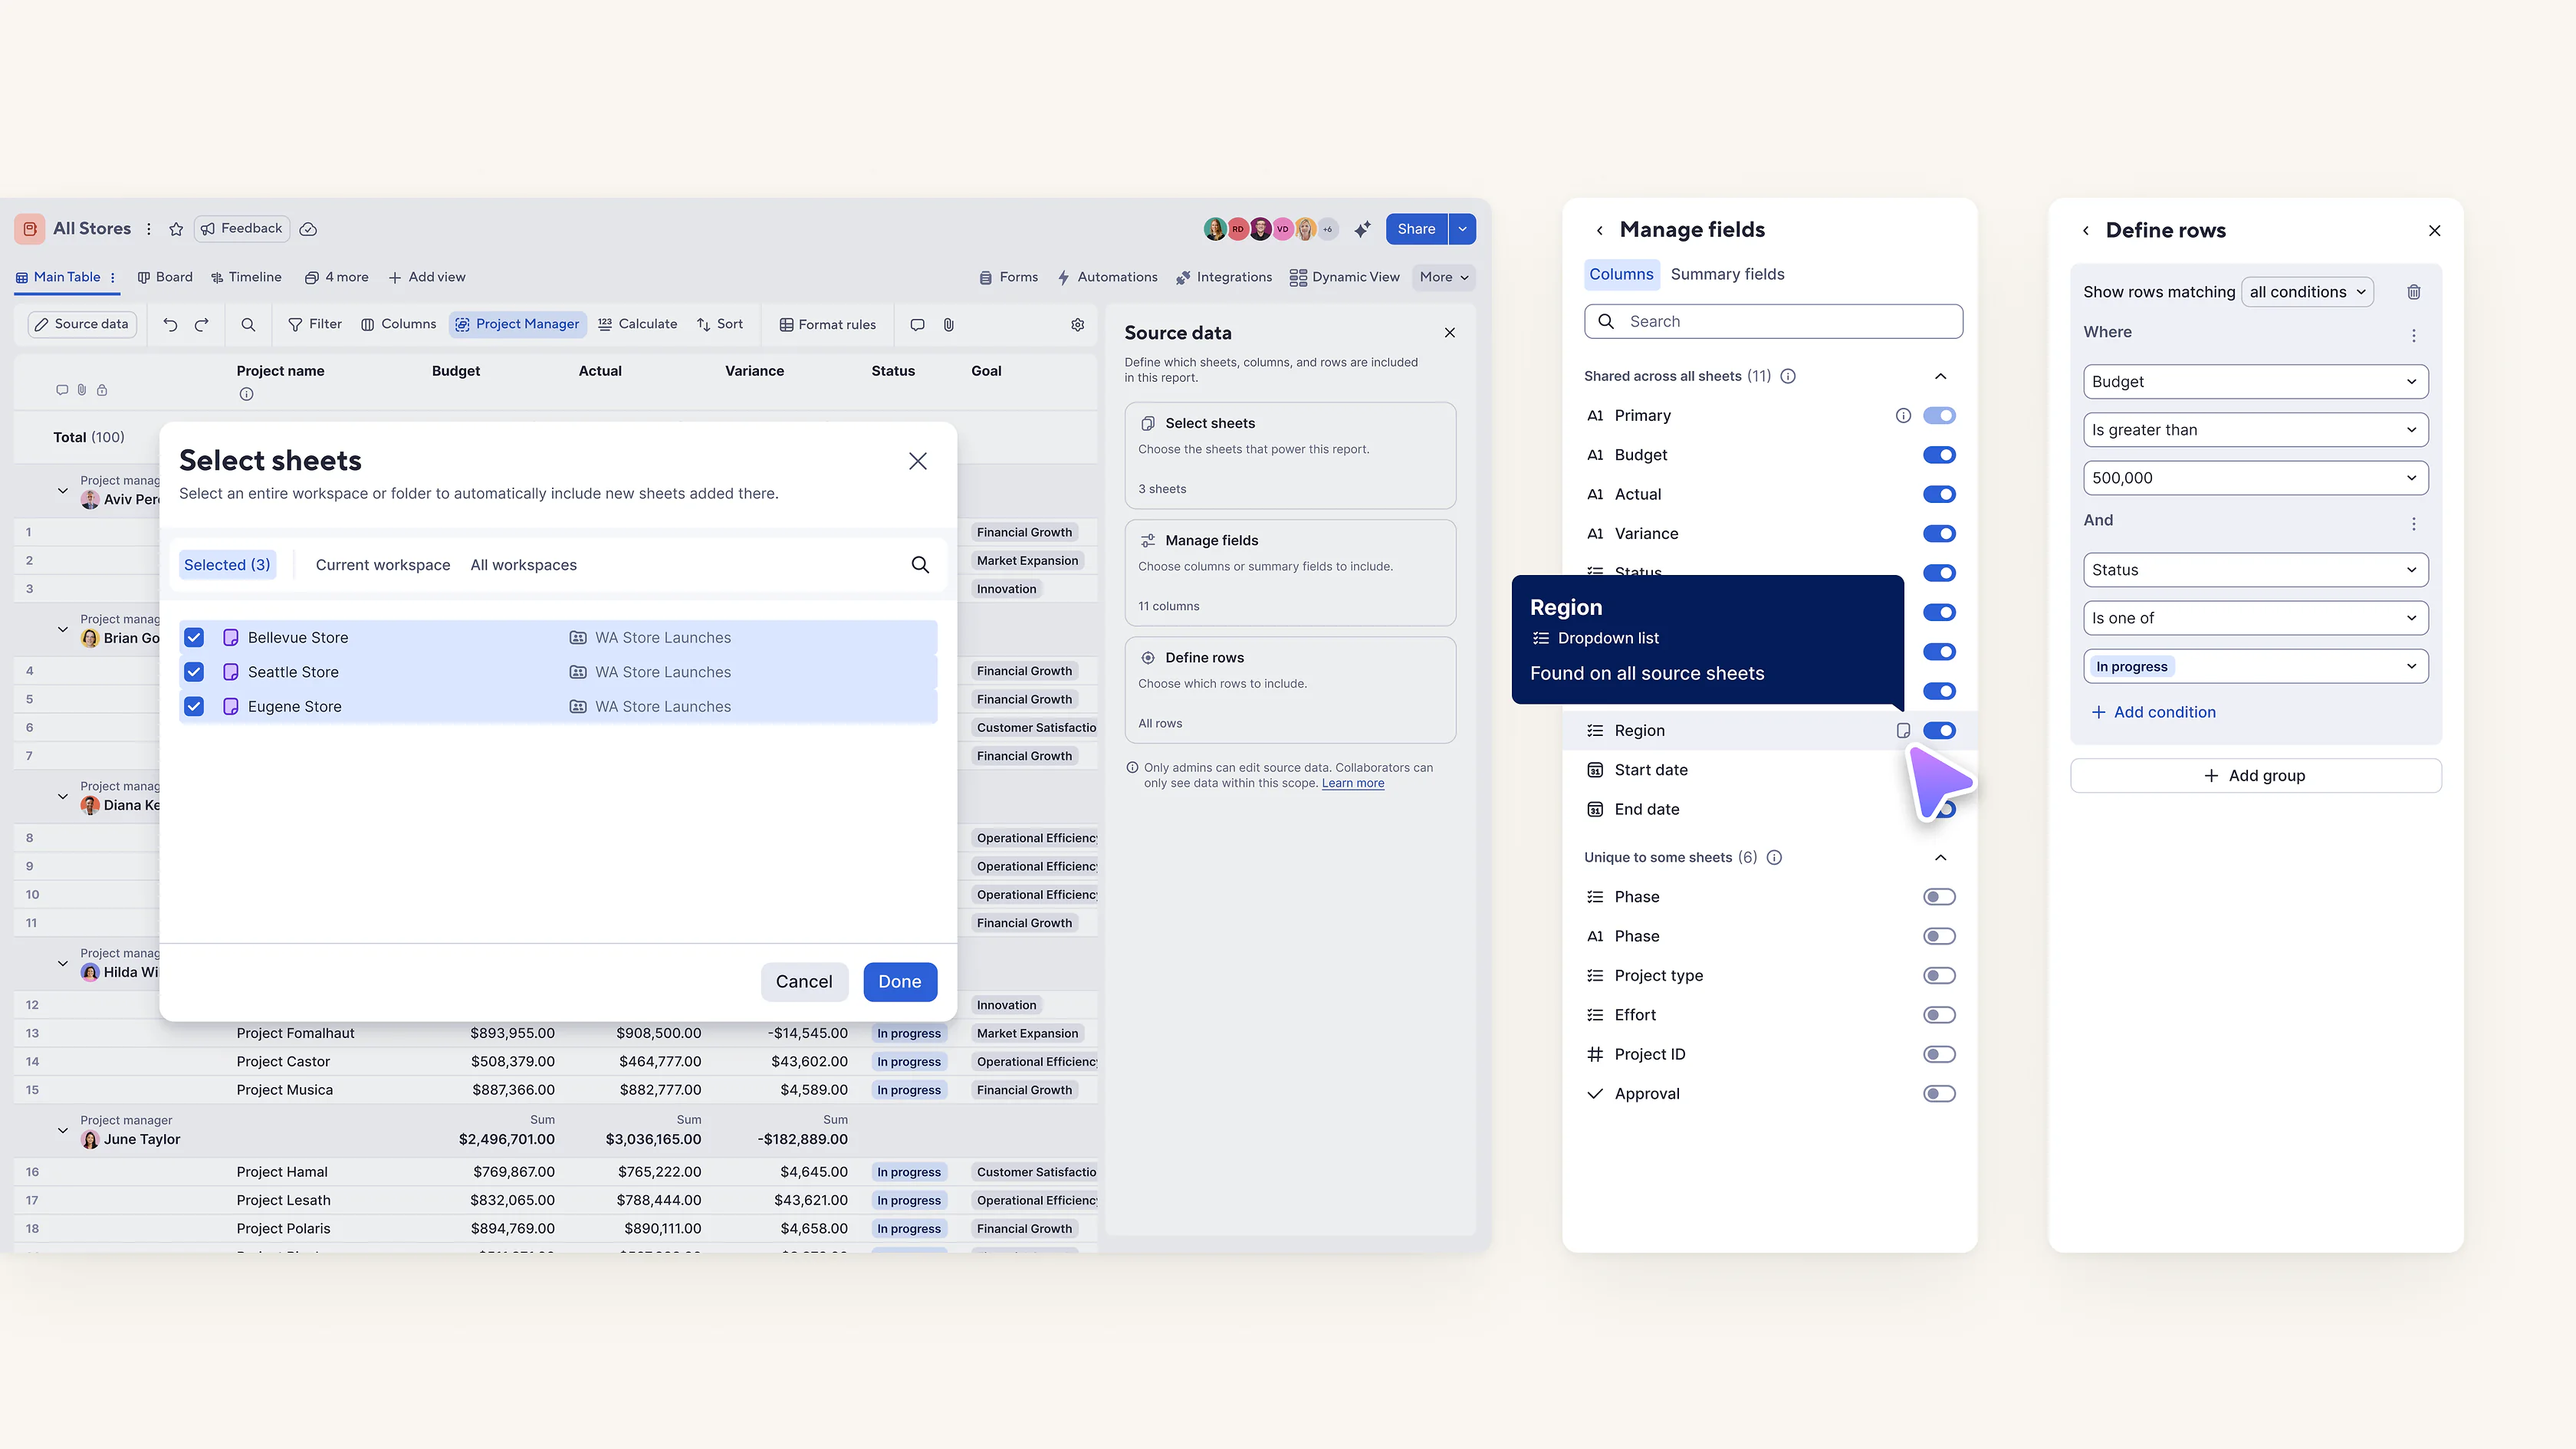
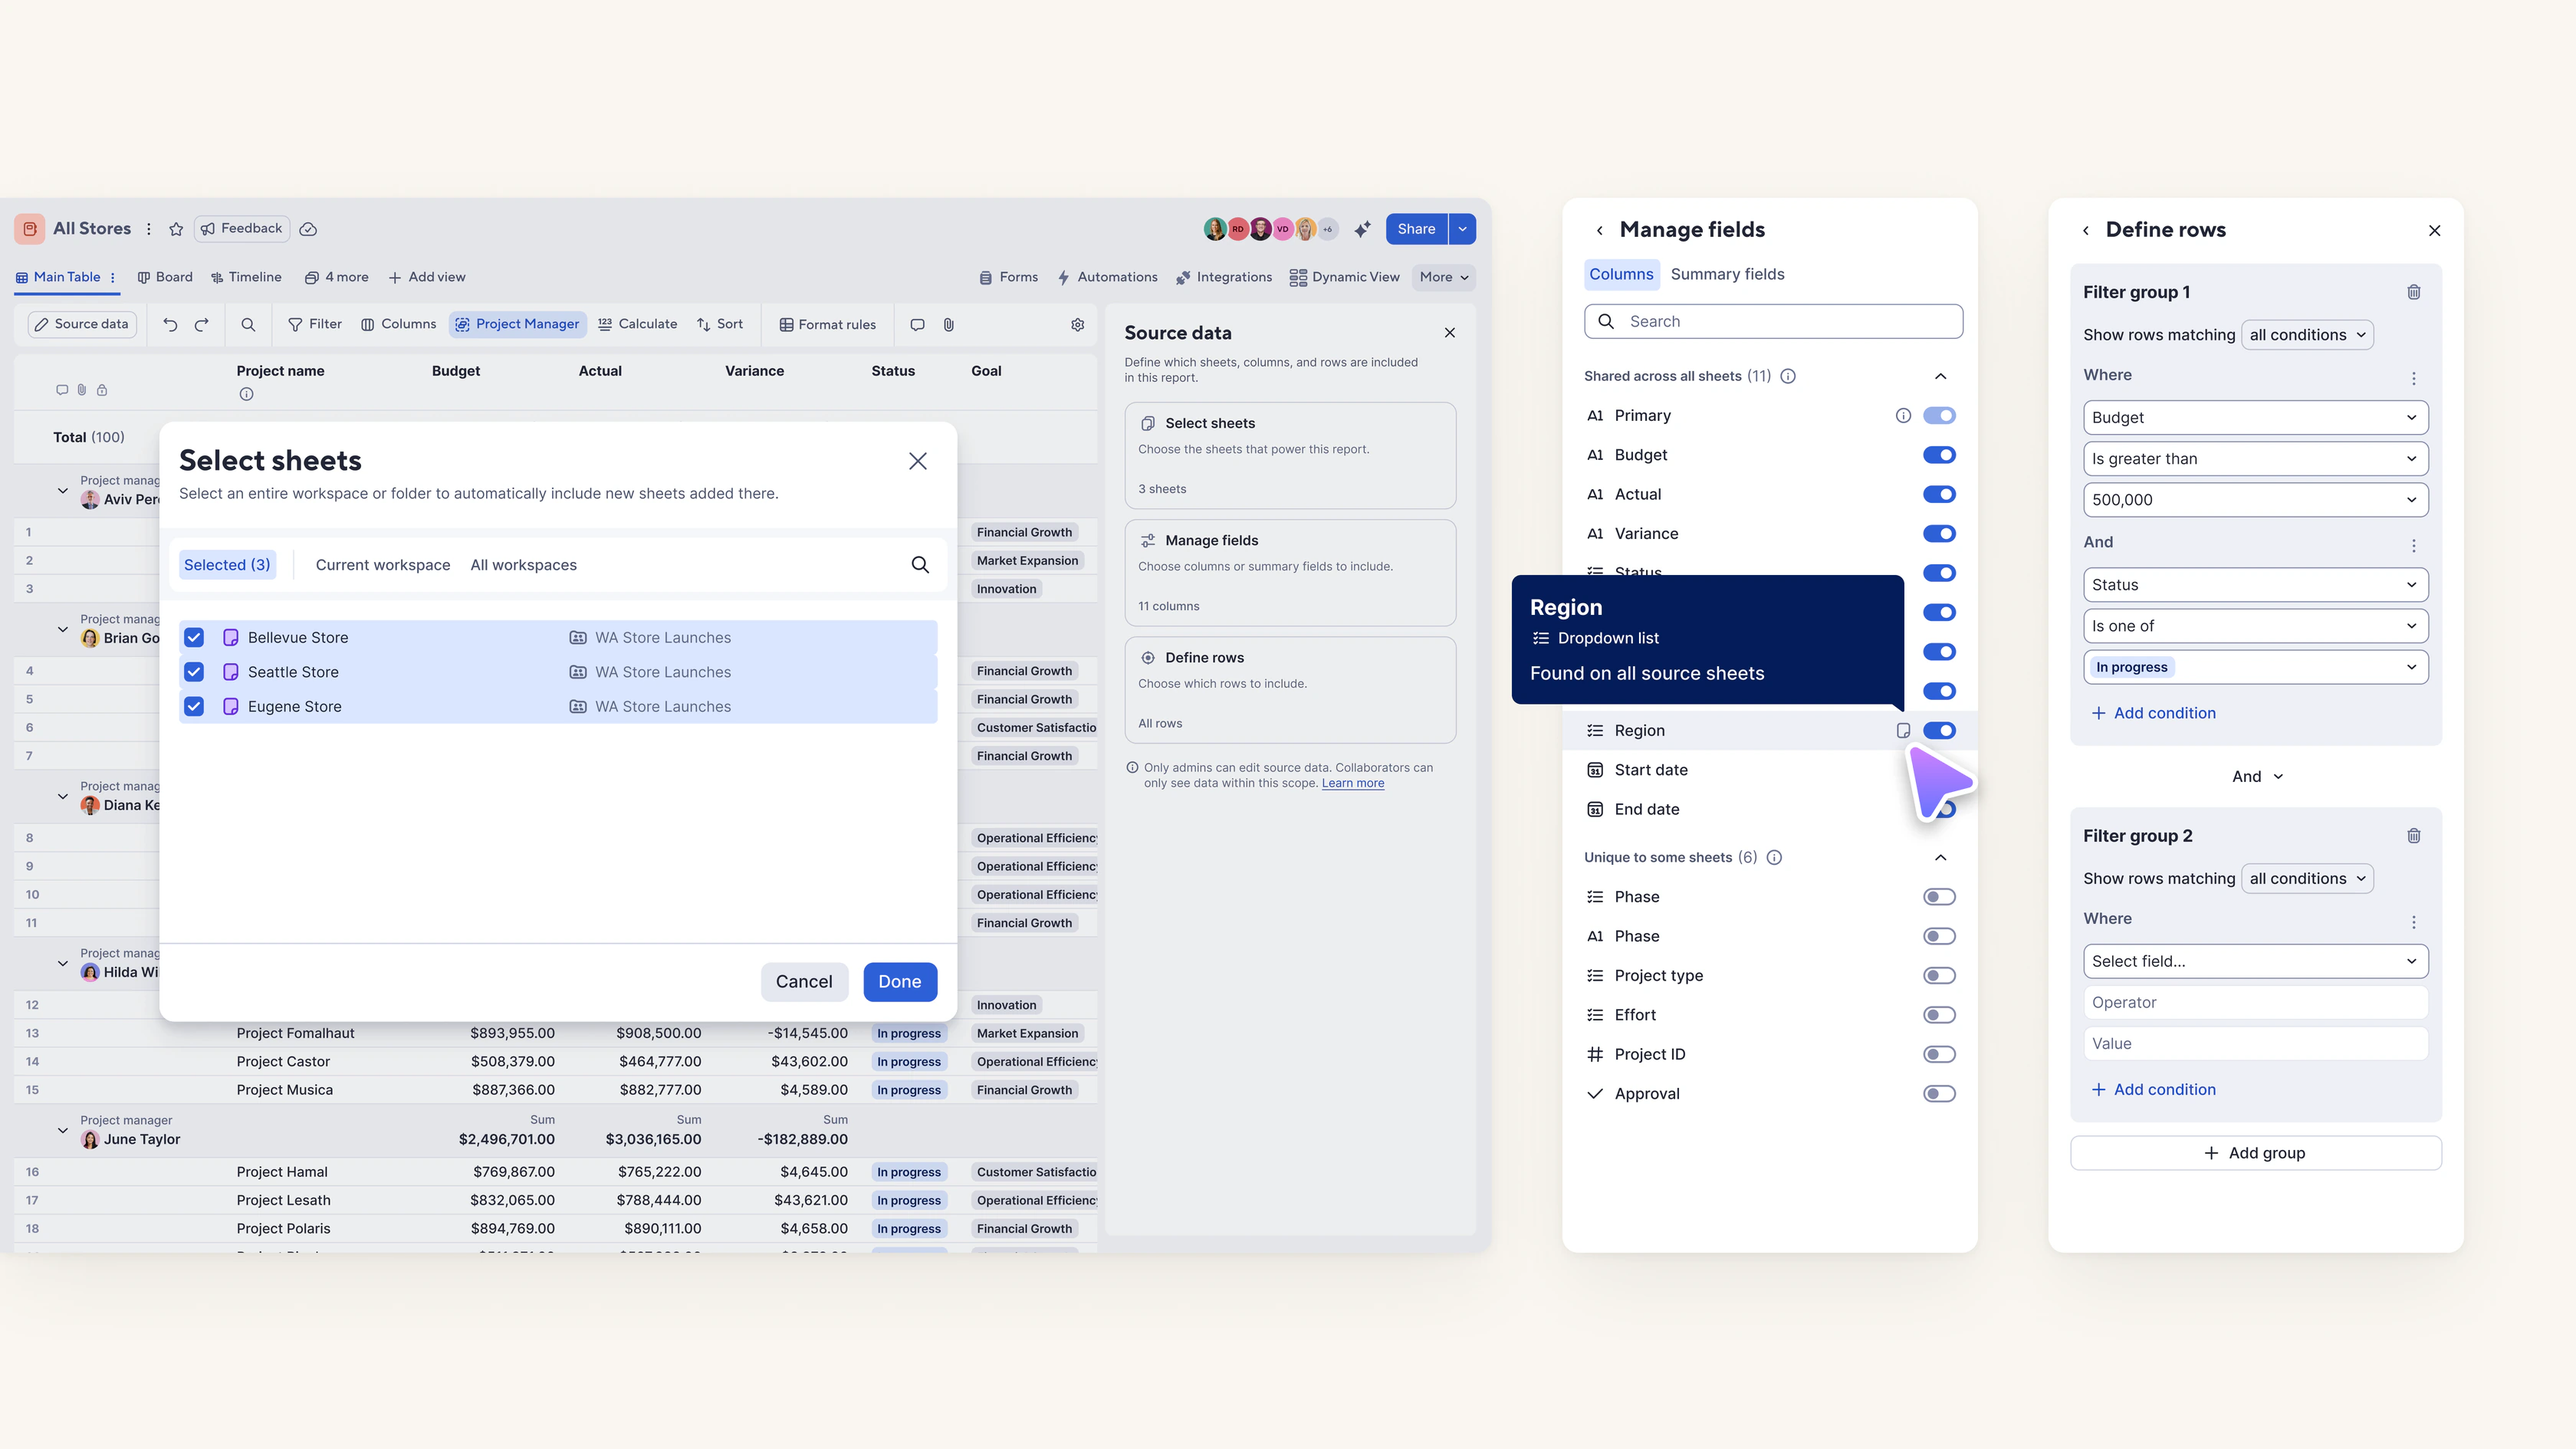
Update Smartsheet Reports metadata and image

diff --git a/src/content/work.ts b/src/content/work.ts
@@ -296,7 +296,7 @@ export const featuredWork: WorkItem = {
   ],
   summary: "Modernized one of Smartsheet's core platform capabilities while aligning three teams around its long-term direction.",
   cardMeta: "Smartsheet • Case Study",
-  caseStudyMeta: "Case Study • Aug '25 – Feb '26",
+  caseStudyMeta: "Case Study • Aug '25 – Mar '26",
   overview: {
     items: [
       { label: "Role", value: "Lead designer" },
